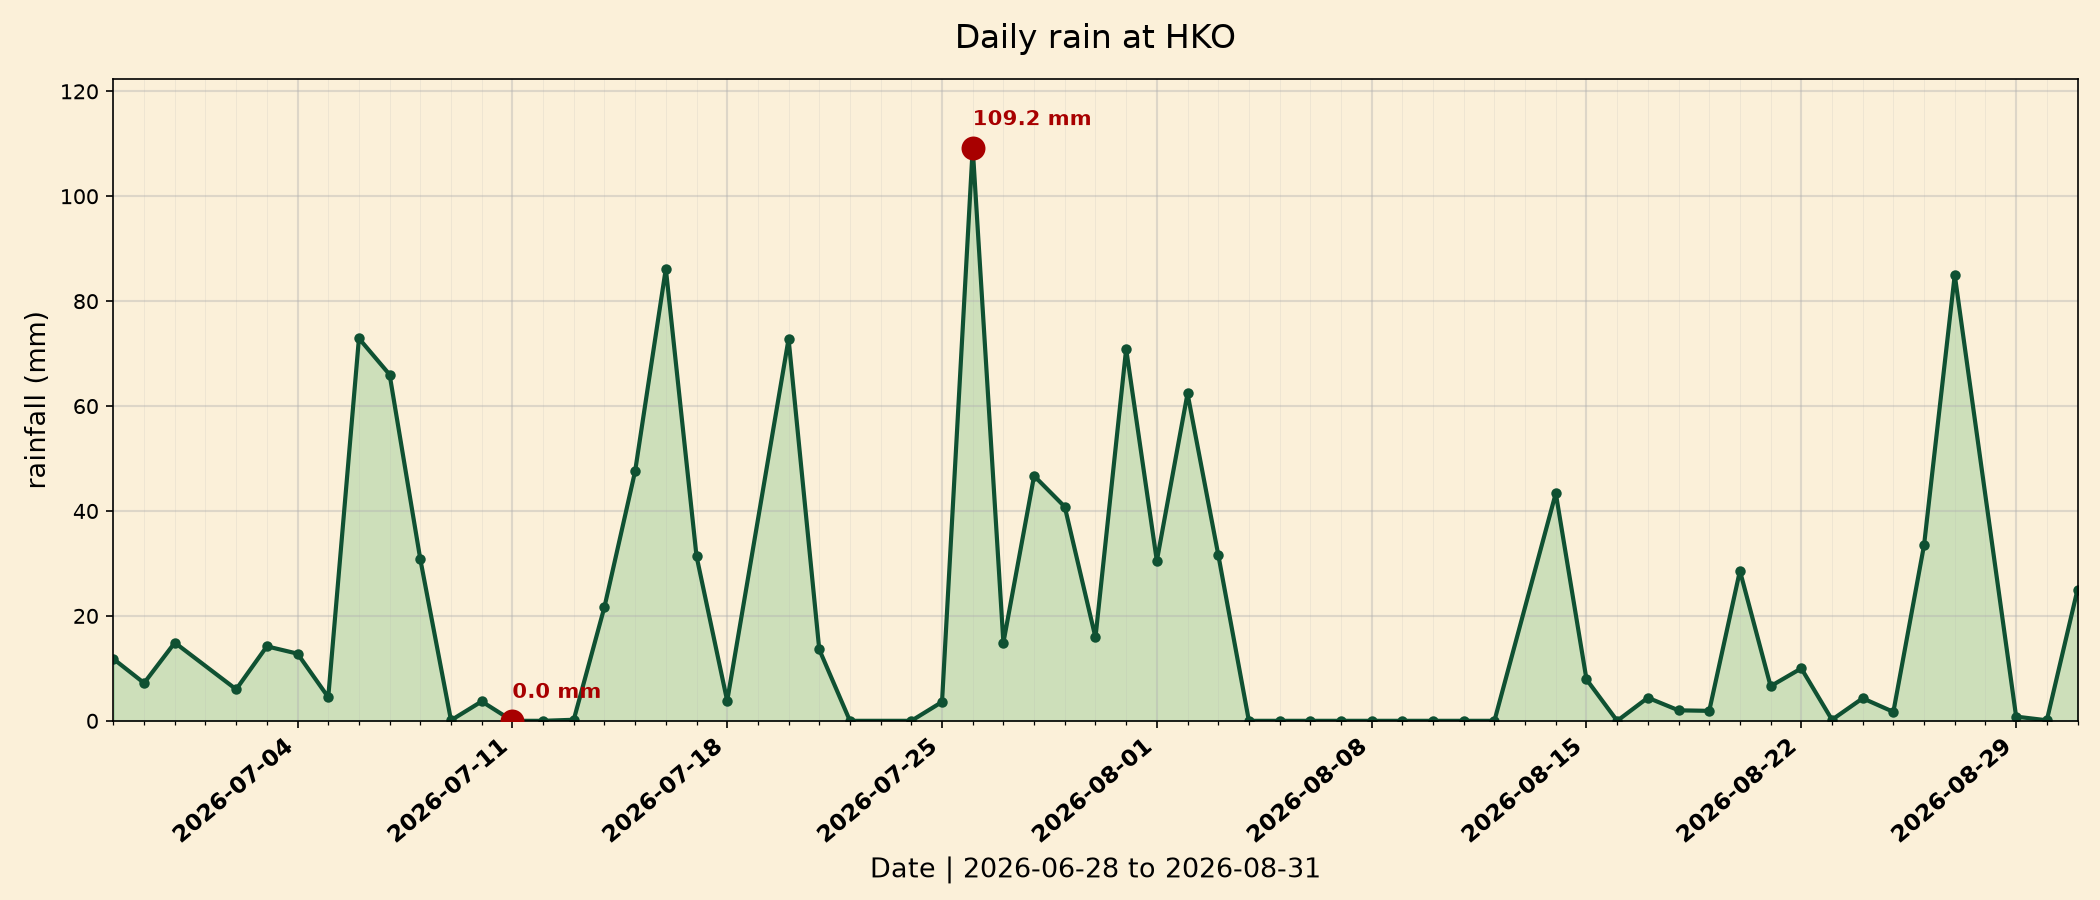
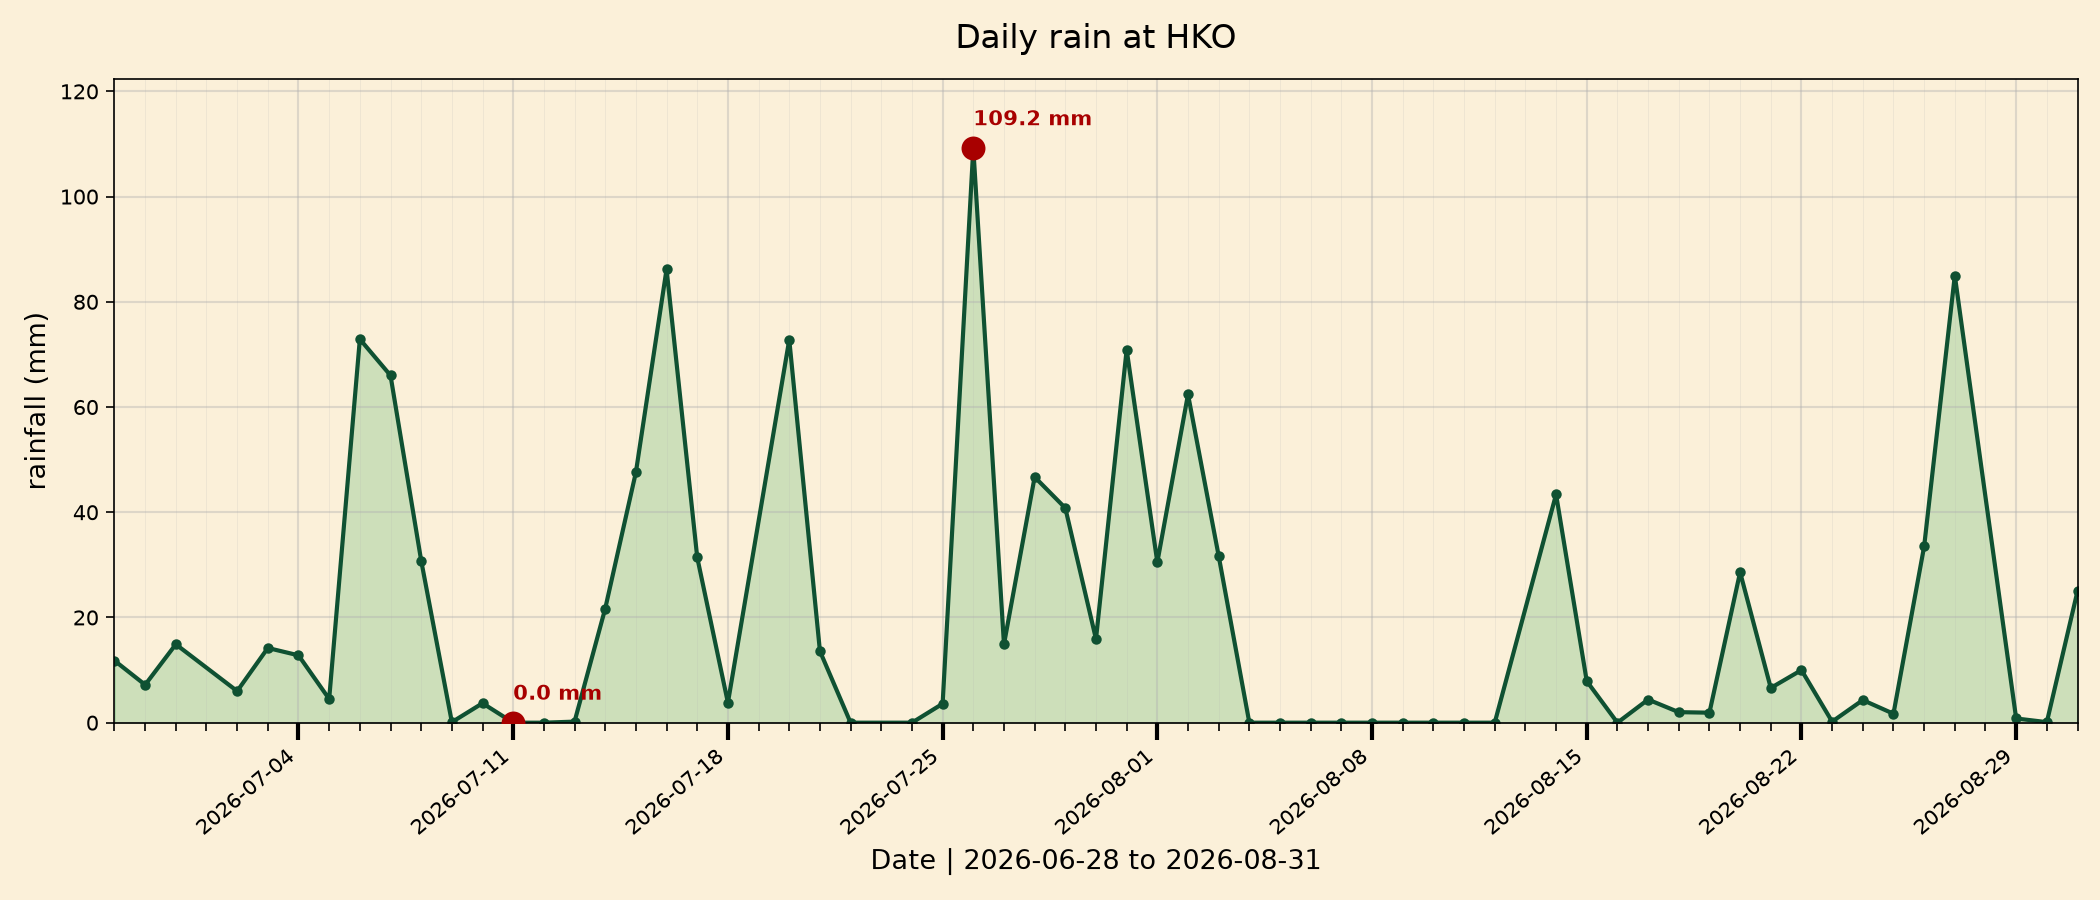
Thicken x-axis major tick short vertical lines

diff --git a/plot.py b/plot.py
@@ -75,19 +75,19 @@ def main():
     ax.set_xlabel(f"Date | {start_date} to {end_date}", fontsize=13)
     ax.set_ylabel("rainfall (mm)", fontsize=13)
 
-    # X轴：主刻度每7天，文字加粗；次刻度每天一条细线，网格和日期对齐
+    # X轴日期定位：主刻度7天，次刻度每一天
     ax.xaxis.set_major_locator(mdates.DayLocator(interval=7))
     ax.xaxis.set_major_formatter(mdates.DateFormatter("%Y-%m-%d"))
     ax.xaxis.set_minor_locator(mdates.DayLocator(interval=1))
 
-    # 网格：主网格粗一点，次网格细一点
+    # 网格：主网格粗，次网格细
     ax.grid(True, which="major", alpha=0.4, linestyle="-", linewidth=1.0)
     ax.grid(True, which="minor", alpha=0.2, linestyle="-", linewidth=0.4)
 
-    # ✅ 加粗X轴主刻度文字，加大字号，让日期坐标清晰
-    for label in ax.get_xticklabels(which="major"):
-        label.set_fontweight("bold")
-        label.set_fontsize(11)
+    # ✅ 重点：X轴刻度短竖线（tick）粗细设置
+    ax.tick_params(axis='x', which='major', length=8, width=2)   # 主刻度短竖线：更长、加粗
+    ax.tick_params(axis='x', which='minor', length=4, width=0.8)# 次刻度短竖线：短、细
+    ax.tick_params(axis='y', which='both', length=4, width=0.8) # Y轴保持正常
 
     plt.setp(ax.get_xticklabels(), rotation=40, ha="right")
     ax.margins(x=0, y=0)
@@ -97,7 +97,7 @@ def main():
     plt.tight_layout()
     plt.savefig(img_path, dpi=150)
     plt.show()
-    print("✅ Chart saved, major x-axis date labels are bold.")
+    print("✅ Chart saved, x-axis major tick marks (short vertical lines) are thickened.")
 
 if __name__ == "__main__":
     main()
